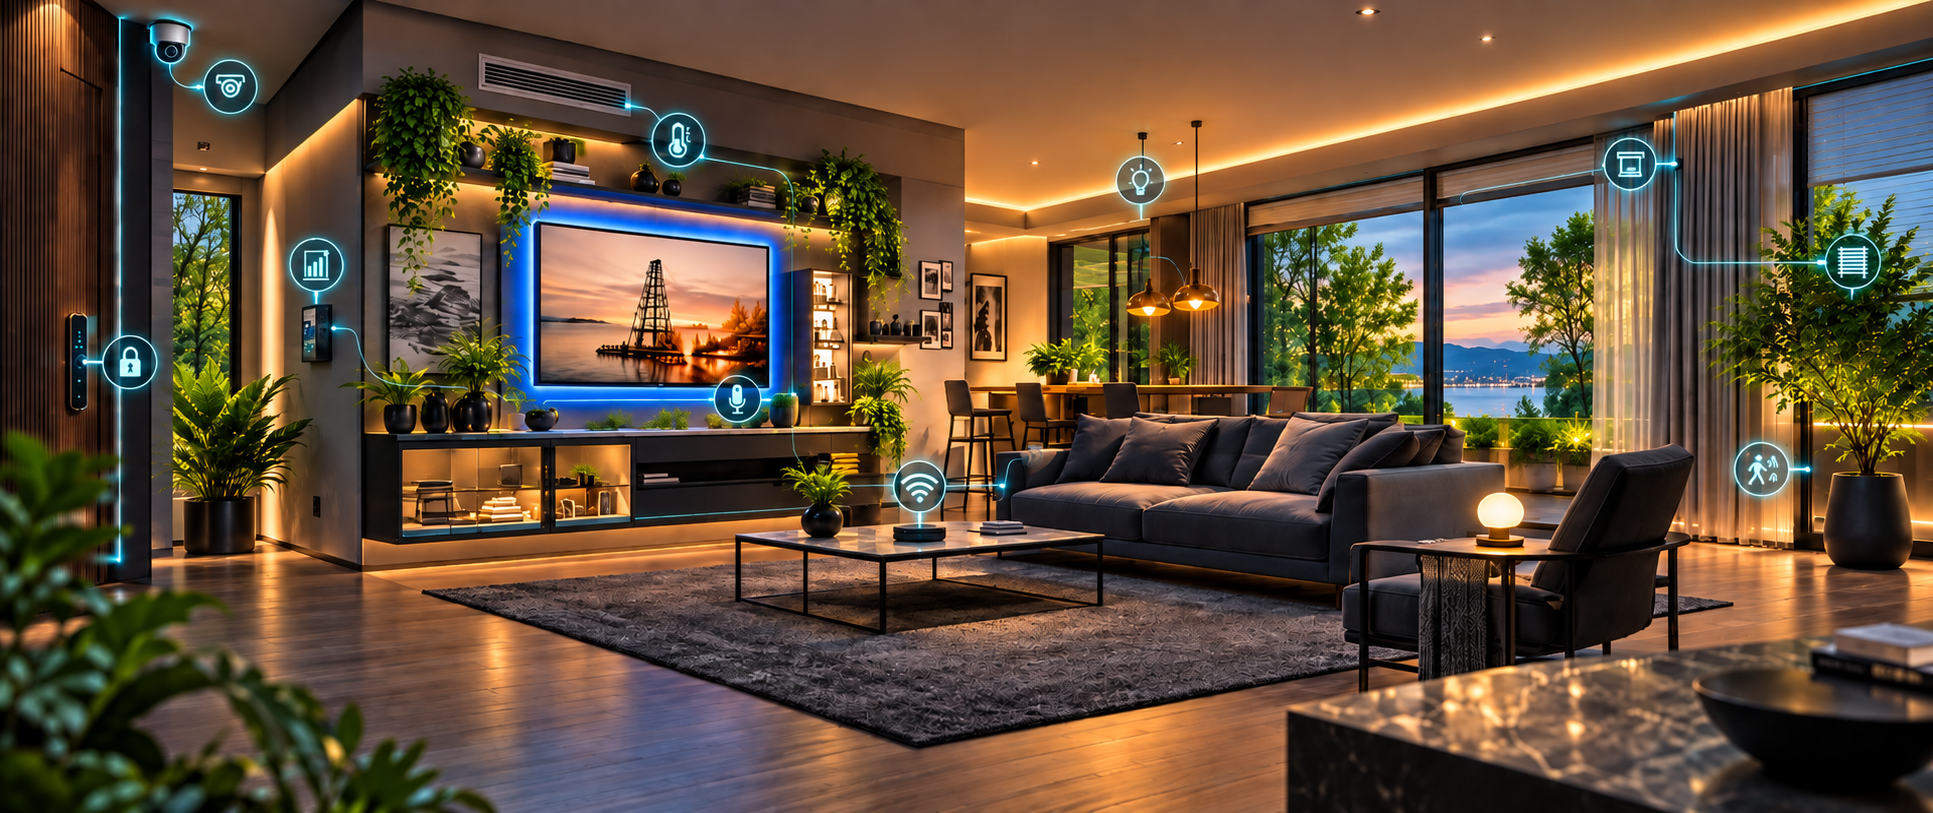
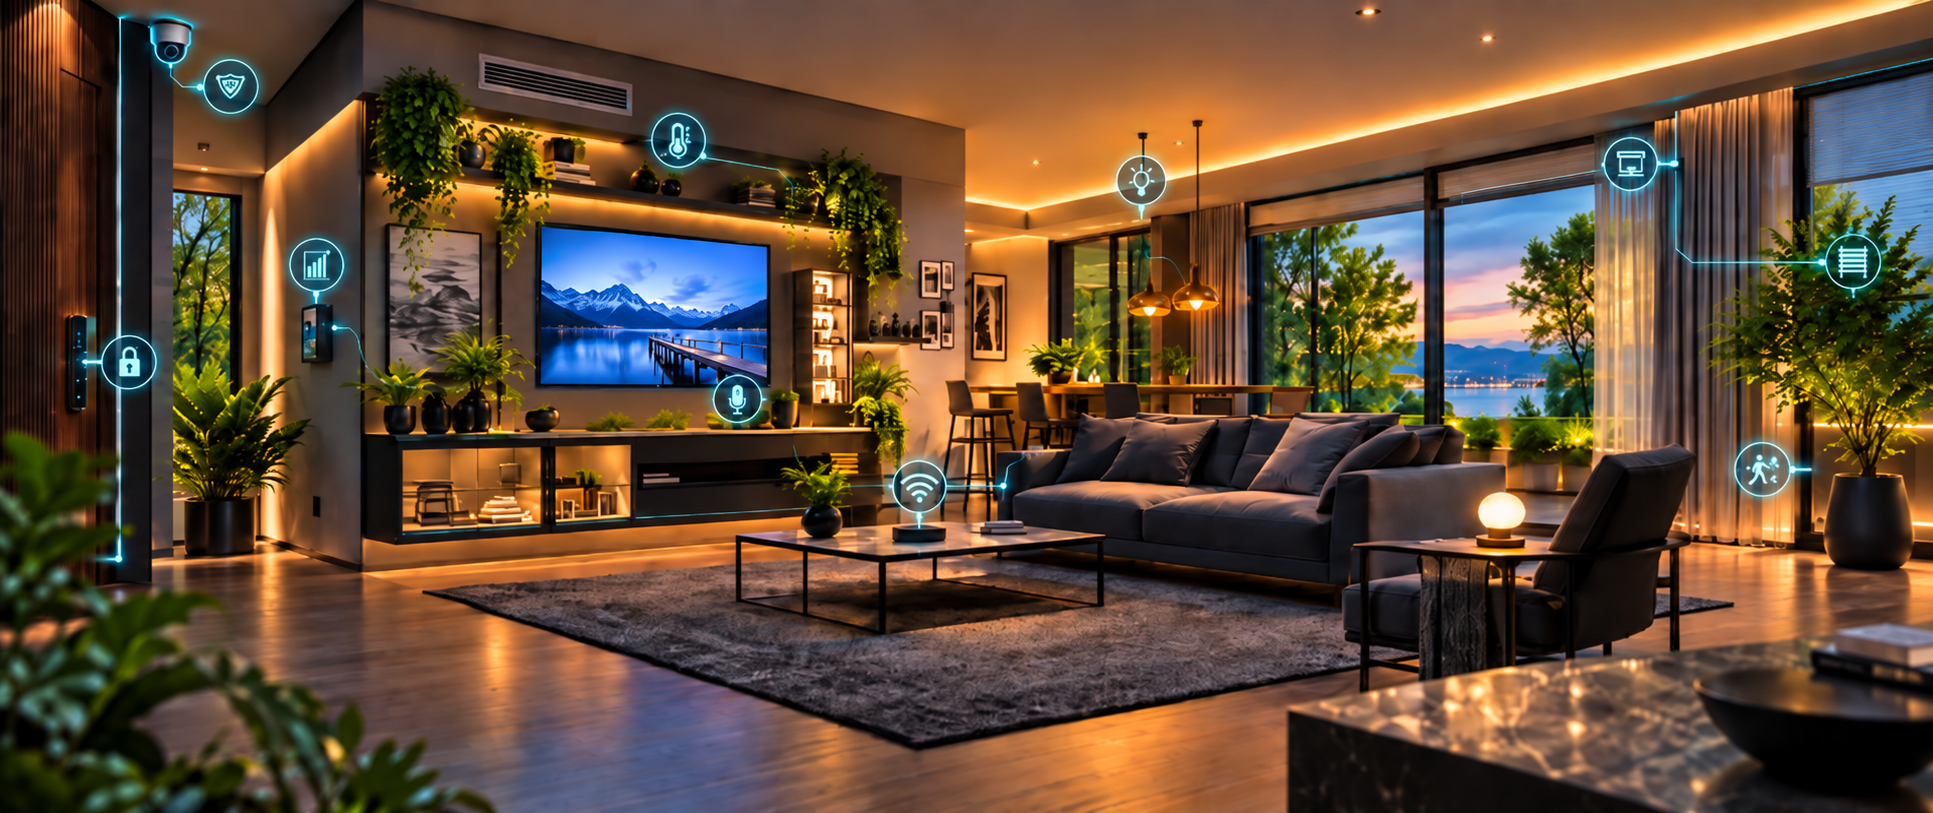
n

diff --git a/index.html b/index.html
@@ -9875,7 +9875,7 @@
 /* Main section heading — cleaner spacing and readability */
 .lx-lighting .lx-main-title{
     font:
-        650 clamp(40px, 4.8vw, 76px)/1.02 "Manrope",
+        650 clamp(40px, 4.8vw, 40px)/1.02 "Manrope",
         sans-serif !important;
 
     letter-spacing:-.025em !important;
@@ -13093,7 +13093,7 @@
 
 #automation h2{
     font:
-        650 clamp(38px, 4.8vw, 76px)/1.02 "Manrope",
+        650 clamp(38px, 4.8vw, 40px)/1.02 "Manrope",
         sans-serif !important;
     letter-spacing: -.02em !important;
     text-transform: uppercase;
@@ -16738,7 +16738,10 @@
     <!-- RIGHT BLACK-SPACE COPY -->
     <div class="bi2-copy">
 
-        <h2 class="bi2-title">BMS TO IOT</h2>
+        <!-- <h2 class="bi2-title">BMS to IOT</h2> -->
+     <h2>
+  <span style="font-size:48px; font-weight:800; line-height:1;">BMS to IOT</span>
+</h2>
 
         <p class="bi2-description">
             We deliver complete BMS solutions, connect existing BMS platforms with IoT for enhanced visibility, and implement fully integrated BMS + IoT systems for smarter monitoring, control and operational intelligence.
